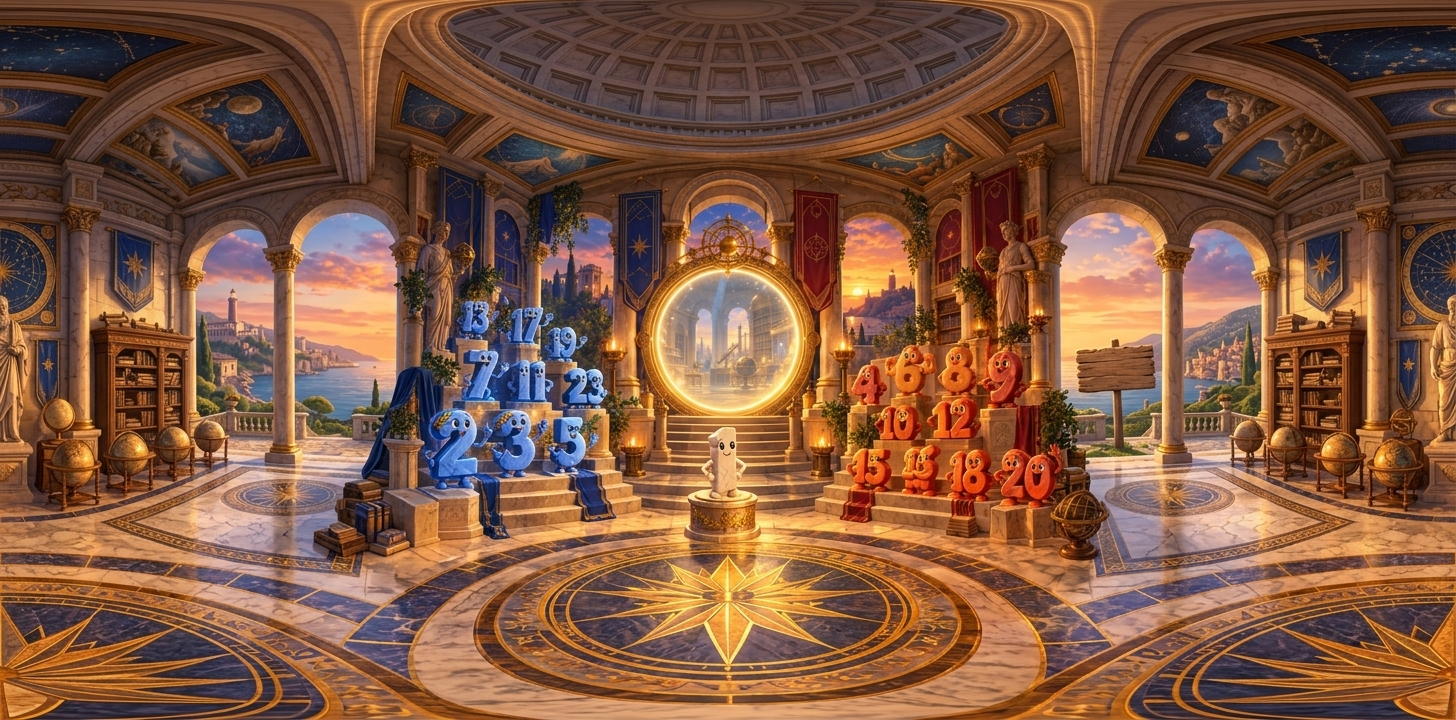
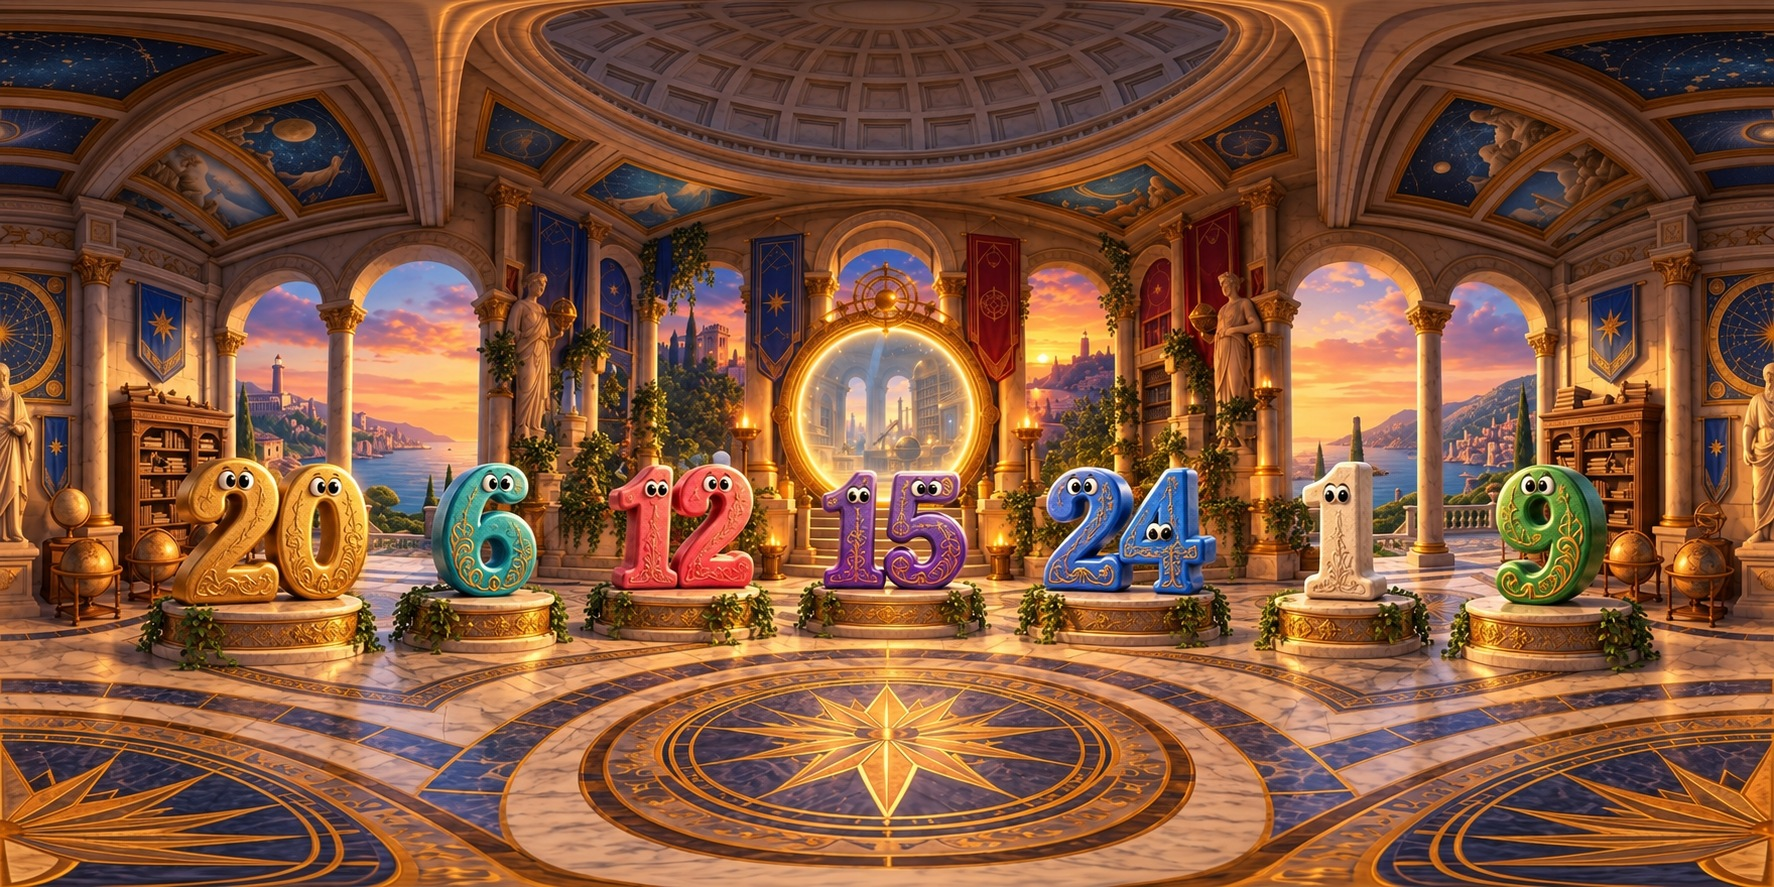
Add files via upload

diff --git a/app.js b/app.js
@@ -34,42 +34,71 @@ intro.querySelector('.intro-close').onclick=()=>{intro.classList.add('hide');tab
 let wrap=el('div','portal-wrap'),isWatched=!!watched[s.video],p=el('button','portal');p.setAttribute('aria-label',isWatched?'Attraversa il portale':'Apri la lezione video');p.innerHTML=`<span class="preview" style="background-image:url('${A+(isWatched?s.preview:s.bg)}')"></span><span class="playmark">${isWatched?'✧':'▶'}</span>`;p.onclick=()=>isWatched?travel(index+1):playVideo(s.video,true);wrap.append(p,el('div','portal-label',isWatched?'✦ Clicca per entrare nella stanza':'▶ Clicca per guardare la lezione'));root.append(wrap);let aside=el('div','side-actions');aside.append(btn('Riapri il video',()=>playVideo(s.video,true),'btn alt'));root.append(aside);stage.append(root)}
 
 const factText=n=>n<2?'Non ho una scomposizione in fattori primi.':`Sono ${factor(n).join(' × ')}.`;
-function makeMarkers(group){if(group==='primes'){
-// Coordinates of actual characters in panorama-primi.jpg, 2048 × 1024. Interactive targets are invisible overlays, not separate numbered pills.
-const xy=[
-[1,222,532],[2,371,477],[3,431,484],[5,521,478],[7,385,346],[11,434,386],[13,475,393],[17,424,322],[19,370,418],[23,515,404],
-[4,813,382],[6,846,388],[8,1278,371],[9,1303,480],[10,789,482],[15,791,536],[16,1329,540],[18,1310,412],[20,1351,480]];
-const texts={1:'Sono 1: non sono né primo né composto.',2:'Sono 2, l’unico numero primo pari.',3:'Sono 3, il più piccolo primo dispari.'};
-return xy.map(([n,x,y])=>({label:String(n),lon:90-x/2048*360,lat:90-y/1024*180,type:'numberhit',text:texts[n]||(prime(n)?`Sono ${n}: ho esattamente due divisori positivi, 1 e me stesso.`:`Sono ${n}: ${factText(n)} Sono composto, perché ho più di due divisori positivi.`)}));}
+// Hotspots use normalized texture coordinates, shared with the panorama itself.
+function region(label,x,y,w,h,text,type='numberhit',action=null){return {label:String(label),u:x,v:y,uw:w,vh:h,text,type,action}}
+function makeMarkers(group){
+if(group==='primes'){
+const boxes=[[1,722,460,55,76],[2,455,443,65,84],[3,514,443,60,79],[5,568,444,50,72],[7,478,374,48,63],[11,530,381,48,50],[13,475,318,40,42],[17,523,325,44,45],[19,564,342,42,44],[23,584,386,50,48],[4,870,384,40,46],[6,912,369,44,54],[8,958,369,44,54],[9,1002,379,43,62],[10,897,420,48,44],[12,951,418,56,48],[15,870,471,47,51],[16,918,470,47,52],[18,970,474,49,60],[20,1027,475,66,60]];
+return boxes.map(([n,x,y,w,h])=>region(n,x/1456,y/720,w/1456,h/720,n===1?'Sono 1: non sono né primo né composto. Ho un solo divisore positivo.':prime(n)?`Sono ${n}: sono primo! Ho esattamente due divisori positivi, 1 e ${n}.`:`Sono ${n}: sono composto! ${n} = ${factor(n).join(' × ')}. Ho più di due divisori positivi.`));
+}
 if(group==='euclid')return [
-{label:'✦',lon:-56,lat:3,text:'Euclide scrisse gli Elementi. Nel libro IX si trova una dimostrazione dell’infinità dei numeri primi.'},
-{label:'∞',lon:-20,lat:0,text:'I numeri primi sono infiniti: nessun elenco finito può contenerli tutti.'},
-{label:'P',lon:24,lat:3,text:'Se supponiamo di conoscere tutti i primi e consideriamo il loro prodotto più 1, otteniamo un numero non divisibile per nessuno dei primi dell’elenco.'},
-{label:'?',lon:64,lat:2,text:'Quel nuovo numero può essere primo oppure composto. Nel secondo caso, ha almeno un fattore primo non presente nell’elenco: l’ipotesi iniziale è impossibile.'}];
+region('Euclide',.50,.61,.17,.34,'Euclide scrisse gli Elementi. Nel libro IX si trova una dimostrazione dell’infinità dei numeri primi.'),
+region('La dimostrazione',.48,.84,.18,.14,'I numeri primi sono infiniti. Se supponiamo di averli elencati tutti, il loro prodotto più 1 non è divisibile per nessuno dei primi dell’elenco. È primo oppure ha un fattore primo fuori dall’elenco: in entrambi i casi, l’elenco non era completo.'),
+region('Passaggio segreto per il castello di Arsinoe',.749,.433,.08,.36,'','windowhit',()=>travel(4))];
 if(group==='eratosthenes')return [
-{label:'2',lon:-62,lat:0,text:'Comincio dal 2 e cancello tutti i suoi multipli maggiori di 2.'},
-{label:'3',lon:-25,lat:0,text:'Il primo numero non cancellato dopo il 2 è il 3. Cancello i suoi multipli maggiori di 3.'},
-{label:'5',lon:20,lat:0,text:'Proseguo con il primo numero non cancellato, senza cancellare il numero stesso.'},
-{label:'√',lon:58,lat:0,text:'Per trovare i primi fino a N basta eliminare i multipli dei primi non superiori a √N.'}];
-return [
-{label:20,lon:-92,lat:8,text:'Sono 20. Sono multiplo di 2, 4, 5 e 10 (e anche di 1 e 20).'},
-{label:6,lon:-55,lat:7,text:'Sono 6: sono divisore di 12 e multiplo di 1, 2 e 3.'},
-{label:12,lon:-16,lat:10,text:'Sono 12: sono multiplo di 3 e 4; 2, 3, 4 e 6 sono miei divisori.'},
-{label:15,lon:25,lat:9,text:'Sono 15: 3 e 5 sono miei divisori e io sono multiplo di entrambi.'},
-{label:24,lon:68,lat:8,text:'Sono 24: sono multiplo di 6, 8 e 12. Sono divisore di 48.'},
-{label:1,lon:110,lat:8,text:'Sono 1: divisore di ogni numero naturale positivo, ma non sono primo né composto.'},
-{label:9,lon:155,lat:9,text:'Sono 9: sono multiplo di 3 e divisore di 18, 27 e 36.'}];}
-class Pano{constructor(node,file){this.node=node;this.node.innerHTML='';this.scene=new THREE.Scene();this.camera=new THREE.PerspectiveCamera(72,node.clientWidth/node.clientHeight,1,1100);this.renderer=new THREE.WebGLRenderer({antialias:true});this.renderer.outputEncoding=THREE.sRGBEncoding;this.renderer.setPixelRatio(Math.min(devicePixelRatio||1,2));this.renderer.setSize(node.clientWidth,node.clientHeight);node.append(this.renderer.domElement);this.lon=0;this.lat=0;this.drag=false;this.fov=72;this.markerObjects=[];this.listeners=[];let geo=new THREE.SphereGeometry(500,64,44);geo.scale(-1,1,1);this.mat=new THREE.MeshBasicMaterial({color:0x101835});this.sphere=new THREE.Mesh(geo,this.mat);this.scene.add(this.sphere);new THREE.TextureLoader().load(A+file,tex=>{if(this.dead){tex.dispose();return}tex.encoding=THREE.sRGBEncoding;this.mat.map=tex;this.mat.needsUpdate=true},undefined,()=>{this.node.insertAdjacentHTML('beforeend','<p>Immagine panoramica non caricata.</p>')});this.install();this.tick()}
-listen(node,event,fn,opts){node.addEventListener(event,fn,opts);this.listeners.push([node,event,fn,opts])}
-install(){const c=this.node;let old=null;this.listen(c,'pointerdown',e=>{if(e.target.closest('button'))return;this.drag=true;old=[e.clientX,e.clientY];c.classList.add('dragging');c.setPointerCapture(e.pointerId)});this.listen(c,'pointermove',e=>{if(!this.drag||!old)return;let dx=e.clientX-old[0],dy=e.clientY-old[1];this.lon-=dx*.13;this.lat=Math.max(-60,Math.min(60,this.lat+dy*.13));old=[e.clientX,e.clientY]});this.listen(c,'pointerup',()=>{this.drag=false;old=null;c.classList.remove('dragging')});this.listen(c,'wheel',e=>{e.preventDefault();this.fov=Math.max(32,Math.min(98,this.fov+e.deltaY*.05));this.camera.fov=this.fov;this.camera.updateProjectionMatrix()},{passive:false});this.ro=new ResizeObserver(()=>{if(this.dead)return;let w=c.clientWidth,h=c.clientHeight;if(w&&h){this.camera.aspect=w/h;this.camera.updateProjectionMatrix();this.renderer.setSize(w,h)}});this.ro.observe(c)}
-markers(items,onClick){this.markerObjects=items.map((item)=>{const b=btn(item.type==='numberhit'?'':String(item.label),()=>onClick(item),'pano-marker '+(item.type||'info'));b.setAttribute('aria-label','Esplora: '+item.label);this.node.append(b);return {item,b}})}
-tick(){if(this.dead)return;let phi=THREE.MathUtils.degToRad(90-this.lat),theta=THREE.MathUtils.degToRad(this.lon);this.camera.lookAt(new THREE.Vector3(500*Math.sin(phi)*Math.cos(theta),500*Math.cos(phi),500*Math.sin(phi)*Math.sin(theta)));this.camera.updateMatrixWorld();let w=this.node.clientWidth,h=this.node.clientHeight;for(const {item,b} of this.markerObjects){let p=THREE.MathUtils.degToRad(90-(item.lat||0)),t=THREE.MathUtils.degToRad(item.lon);const v=new THREE.Vector3(490*Math.sin(p)*Math.cos(t),490*Math.cos(p),490*Math.sin(p)*Math.sin(t));const cam=v.clone().applyMatrix4(this.camera.matrixWorldInverse);if(cam.z>=0){b.style.display='none';continue}v.project(this.camera);if(Math.abs(v.x)>1.07||Math.abs(v.y)>1.08){b.style.display='none';continue}b.style.display='block';b.style.left=((v.x+1)*.5*w)+'px';b.style.top=((-v.y+1)*.5*h)+'px'}this.renderer.render(this.scene,this.camera);this.raf=requestAnimationFrame(()=>this.tick())}
+region('2',.25,.5,.04,.08,'Comincio dal 2 e cancello i suoi multipli maggiori di 2.'),
+region('3',.40,.5,.04,.08,'Il primo numero non cancellato dopo il 2 è il 3. Cancello i suoi multipli maggiori di 3.'),
+region('5',.60,.5,.04,.08,'Proseguo con il primo numero non cancellato, senza cancellare il numero stesso.'),
+region('√',.75,.5,.04,.08,'Per trovare i primi fino a N basta eliminare i multipli dei primi non superiori a √N.')];
+return divisorRegions();
+}
+function divisorRegions(){
+const rows=[
+[20,270,530,190,152,'Sono 20: sono multiplo di 2, 4, 5 e 10, e anche di 1 e 20.'],
+[6,483,529,115,142,'Sono 6: sono divisore di 12 e multiplo di 2 e 3. Infatti 12 = 6 × 2 e 6 = 2 × 3.'],
+[12,684,527,153,141,'Sono 12: sono multiplo di 3 e 4. I miei divisori positivi sono 1, 2, 3, 4, 6 e 12.'],
+[15,892,529,151,136,'Sono 15: sono multiplo di 3 e 5. Infatti 15 = 3 × 5.'],
+[24,1127,531,185,140,'Sono 24: sono multiplo di 6, 8 e 12. Sono anche divisore di 48.'],
+[1,1340,528,94,145,'Sono 1: sono divisore di ogni numero naturale positivo. Non sono né primo né composto.'],
+[9,1551,529,117,147,'Sono 9: sono multiplo di 3 e divisore di 18, 27 e 36.']];
+return rows.map(([n,x,y,w,h,text])=>region(n,x/1774,y/887,w/1774,h/887,text));}
+
+class Pano{
+constructor(node,file){
+this.node=node;this.scene=new THREE.Scene();this.camera=new THREE.PerspectiveCamera(72,node.clientWidth/node.clientHeight,1,1100);
+this.renderer=new THREE.WebGLRenderer({antialias:true});this.renderer.outputEncoding=THREE.sRGBEncoding;this.renderer.setPixelRatio(Math.min(devicePixelRatio||1,2));this.renderer.setSize(node.clientWidth,node.clientHeight);node.append(this.renderer.domElement);
+this.lon=180;this.lat=0;this.fov=72;this.markerObjects=[];this.listeners=[];
+const geo=new THREE.SphereGeometry(500,96,64);geo.scale(-1,1,1);this.mat=new THREE.MeshBasicMaterial({color:0xffffff});this.sphere=new THREE.Mesh(geo,this.mat);this.scene.add(this.sphere);
+new THREE.TextureLoader().load(A+file,tex=>{if(this.dead){tex.dispose();return}tex.encoding=THREE.sRGBEncoding;this.mat.map=tex;this.mat.needsUpdate=true},undefined,()=>{if(!this.dead)this.node.insertAdjacentHTML('beforeend','<p class="pano-hint">Immagine panoramica non caricata.</p>')});
+this.bubble=el('div','pano-bubble hide');this.bubble.setAttribute('role','status');this.bubble.append(btn('×',()=>this.closeBubble(),'bubble-close'),this.bubbleText=el('p'));node.append(this.bubble);this.install();this.tick();
+}
+listen(n,e,f,o){n.addEventListener(e,f,o);this.listeners.push([n,e,f,o])}
+closeBubble(){this.active=null;this.bubble.classList.add('hide')}
+install(){const c=this.node;let start=null,old=null;this.moved=false;
+this.listen(c,'pointerdown',e=>{if(e.target.closest('.pano-controls,.pano-bubble'))return;start=old=[e.clientX,e.clientY];this.moved=false;this.drag=true;});
+this.listen(c,'pointermove',e=>{if(!this.drag||!old)return;const dx=e.clientX-old[0],dy=e.clientY-old[1];if(Math.hypot(e.clientX-start[0],e.clientY-start[1])>7)this.moved=true;if(this.moved){this.lon-=dx*.13;this.lat=Math.max(-60,Math.min(60,this.lat+dy*.13));c.classList.add('dragging')}old=[e.clientX,e.clientY]});
+const stop=()=>{this.drag=false;old=null;c.classList.remove('dragging')};this.listen(window,'pointerup',stop);this.listen(window,'pointercancel',stop);
+this.listen(c,'click',e=>{if(this.moved){e.stopPropagation();e.preventDefault();return}if(!e.target.closest('button,.pano-bubble'))this.closeBubble()},true);
+this.listen(c,'wheel',e=>{e.preventDefault();this.zoom(e.deltaY*.05)},{passive:false});
+this.ro=new ResizeObserver(()=>{if(this.dead)return;const w=c.clientWidth,h=c.clientHeight;if(w&&h){this.camera.aspect=w/h;this.camera.updateProjectionMatrix();this.renderer.setSize(w,h)}});this.ro.observe(c);
+}
+markers(items){this.markerObjects=items.map(item=>{const b=btn('',()=>{if(item.action){item.action();return}this.active=item;this.bubbleText.textContent=item.text;this.bubble.classList.remove('hide')},'pano-marker '+item.type);b.setAttribute('aria-label','Esplora: '+item.label);this.node.append(b);return {item,b}})}
+project(u,v){const t=u*Math.PI*2,p=v*Math.PI;const vec=new THREE.Vector3(490*Math.sin(p)*Math.cos(t),490*Math.cos(p),490*Math.sin(p)*Math.sin(t));if(vec.clone().applyMatrix4(this.camera.matrixWorldInverse).z>=-1)return null;vec.project(this.camera);return {x:(vec.x+1)*this.node.clientWidth/2,y:(1-vec.y)*this.node.clientHeight/2}}
+tick(){if(this.dead)return;const phi=THREE.MathUtils.degToRad(90-this.lat),theta=THREE.MathUtils.degToRad(this.lon);this.camera.lookAt(new THREE.Vector3(500*Math.sin(phi)*Math.cos(theta),500*Math.cos(phi),500*Math.sin(phi)*Math.sin(theta)));this.camera.updateMatrixWorld();const w=this.node.clientWidth,h=this.node.clientHeight;
+for(const {item,b} of this.markerObjects){const q=this.project(item.u,item.v);const corners=[[-1,-1],[1,-1],[-1,1],[1,1]].map(([x,y])=>this.project(item.u+x*item.uw/2,item.v+y*item.vh/2));if(!q||corners.some(c=>!c)||q.x< -100||q.x>w+100||q.y< -100||q.y>h+100){b.style.display='none';continue}const xs=corners.map(c=>c.x),ys=corners.map(c=>c.y);const bw=Math.max(44,Math.max(...xs)-Math.min(...xs)),bh=Math.max(44,Math.max(...ys)-Math.min(...ys));b.style.cssText=`display:block;left:${q.x}px;top:${q.y}px;width:${bw}px;height:${bh}px`;
+}
+if(this.active){const q=this.project(this.active.u,this.active.v-this.active.vh/2);if(!q||q.x<0||q.x>w||q.y<0||q.y>h)this.bubble.style.visibility='hidden';else{this.bubble.style.visibility='visible';const bw=this.bubble.offsetWidth,bh=this.bubble.offsetHeight;this.bubble.style.left=Math.max(8,Math.min(w-bw-8,q.x-bw/2))+'px';this.bubble.style.top=Math.max(64,Math.min(h-bh-110,q.y-bh-12))+'px';}}
+this.renderer.render(this.scene,this.camera);this.raf=requestAnimationFrame(()=>this.tick());
+}
 zoom(d){this.fov=Math.max(32,Math.min(98,this.fov+d));this.camera.fov=this.fov;this.camera.updateProjectionMatrix()}
-dispose(){this.dead=true;cancelAnimationFrame(this.raf);this.ro?.disconnect();this.listeners.forEach(([n,e,f,o])=>n.removeEventListener(e,f,o));this.mat.map?.dispose();this.mat.dispose();this.sphere.geometry.dispose();this.renderer.dispose();this.renderer.domElement.remove()}}
+dispose(){this.dead=true;cancelAnimationFrame(this.raf);this.ro?.disconnect();this.listeners.forEach(([n,e,f,o])=>n.removeEventListener(e,f,o));this.mat.map?.dispose();this.mat.dispose();this.sphere.geometry.dispose();this.renderer.dispose();this.renderer.domElement.remove()}
+}
 function renderPanoScene(s){const node=el('div','pano');stage.append(node);if(!window.THREE){node.innerHTML=`<div class="scene" style="background-image:url('${A+s.bg}')"><div class="intro"><h2>Impossibile caricare il visore 360°</h2><p>Serve la libreria Three.js e una connessione a Internet.</p></div></div>`;return}viewer=new Pano(node,s.bg);const hint=el('div','pano-hint','Trascina per esplorare · clicca direttamente sui numeri · scorri per zoomare');node.append(hint);setTimeout(()=>hint.remove(),7000);
-const markers=makeMarkers(s.group);const panel=el('div','pano-panel',`<h2>${escapeH(s.title)}</h2><p id="factInfo">Sposta lo sguardo e scopri gli hotspot nascosti nella scena.</p>`);node.append(panel);viewer.markers(markers,item=>{const p=$('#factInfo');if(p)p.textContent=item.text});const controls=el('div','pano-controls');node.append(controls);controls.append(btn('＋ Zoom',()=>viewer.zoom(-10),'mini'),btn('－ Zoom',()=>viewer.zoom(10),'mini'));
+const markers=makeMarkers(s.group);viewer.markers(markers);const controls=el('div','pano-controls');node.append(controls);controls.append(btn('＋',()=>viewer.zoom(-10),'mini'),btn('−',()=>viewer.zoom(10),'mini'),btn('Mostra curiosità',e=>{node.classList.toggle('show-hotspots');},'mini'));
+if(s.group==='primes')viewer.lon=120;
+if(s.group==='euclid')viewer.lon=220;
 if(s.group==='eratosthenes'){controls.append(btn('▶ Video Eratostene',()=>playVideo('video4'),'mini'));if(C.video5)controls.append(btn('▶ Secondo video',()=>playVideo('video5'),'mini'))}
-if(s.quiz){controls.append(btn(quizPassed[index]?'✓ Quiz superato · prosegui':'✦ Affronta 5 quesiti',()=>quizPassed[index]?travel(index+1):startQuiz(s.quiz,5,3,()=>{quizPassed[index]=true;travel(index+1)}),'btn'));}else if(s.group==='euclid'){controls.append(btn('➜ Verso il castello di Arsinoe',()=>travel(4),'btn'));}else if(s.group==='eratosthenes'){controls.append(btn('➜ Entra nel crivello interattivo',()=>travel(6),'btn'));}else controls.append(btn('✧ Prosegui',()=>travel(index+1),'btn'));
+if(s.quiz){controls.append(btn(quizPassed[index]?'✓ Quiz superato · prosegui':'✦ Affronta 5 quesiti',()=>quizPassed[index]?travel(index+1):startQuiz(s.quiz,5,3,()=>{quizPassed[index]=true;travel(index+1)}),'btn'));}else if(s.group==='euclid'){hint.textContent='Esplora la biblioteca: una finestra nasconde il passaggio per Arsinoe.';}else if(s.group==='eratosthenes'){controls.append(btn('➜ Entra nel crivello interattivo',()=>travel(6),'btn'));}else controls.append(btn('✧ Prosegui',()=>travel(index+1),'btn'));
 }
 function renderEmbed(){let root=el('div','scene');root.innerHTML=`<div class="intro" style="top:63px;max-width:none"><h2>Il crivello di Eratostene</h2><p>Sperimenta: quali numeri restano quando elimini progressivamente i multipli?</p></div><iframe id="crivello" class="embed embedScene" title="Crivello Matica" loading="eager" src="${escapeH(C.crivello)}"></iframe>`;let bar=el('div','embedToolbar');bar.append(btn('Apri in un’altra scheda',()=>window.open(C.crivello,'_blank','noopener'),'btn alt'));bar.append(btn('✧ Ho esplorato il crivello · prosegui',()=>travel(index+1)));root.append(bar);stage.append(root)}
 function createPrimeQuiz(){const nums=shuffle(Array.from({length:30},(_,i)=>i+1));let selected=nums.slice(0,5);if(!selected.includes(1)&&Math.random()<.5)selected[0]=1;return selected.map((n,i)=>{if(n===1||prime(n)||i%2===0)return {type:'choice',text:`Il numero ${n} è…`,choices:['Primo','Composto','Né primo né composto'],correct:n===1?2:prime(n)?0:1,explanation:n===1?'1 ha un solo divisore positivo.':prime(n)?`${n} ha esattamente due divisori positivi.`:`${n} = ${factor(n).join(' × ')}.`};return {type:'factors',text:`Scomponi ${n} in fattori primi. Scrivi per esempio 2×3×3.`,n,explanation:`${n} = ${factor(n).join(' × ')}. L’ordine dei fattori non conta.`}})}

diff --git a/style.css b/style.css
@@ -17,3 +17,12 @@
 @keyframes fly{0%{transform:scale(.035);filter:brightness(1.1) blur(0)}45%{transform:scale(.20);filter:brightness(1.15) blur(0)}78%{transform:scale(.72);filter:brightness(1.15) blur(1px)}100%{transform:scale(3);filter:brightness(1.3) blur(3px)}}
 @keyframes fadeout{0%{opacity:0}8%{opacity:1}75%{opacity:1}100%{opacity:0}}
 @media(max-width:750px){.intro{top:65px;left:8px;right:8px;max-width:none;padding:17px 42px 17px 18px;}.intro p{font-size:15px;}.intro h1{font-size:23px}.portal-wrap{top:62%;}.pano-panel p{font-size:13px;}}
+
+/* Hotspot trasparenti, ancorati alla texture anche durante zoom e rotazione. */
+.pano-marker.numberhit,.pano-marker.windowhit{background:transparent!important;border:0!important;box-shadow:none!important;padding:0;min-width:44px;min-height:44px;border-radius:8px;color:transparent;}
+.pano-marker.numberhit:hover,.pano-marker.windowhit:hover{background:transparent!important;outline:0;transform:translate(-50%,-50%);}
+.pano-marker:focus-visible,.show-hotspots .pano-marker{outline:2px dashed #ffe6a3!important;background:#ffdd7726!important;}
+.pano-bubble{position:absolute;z-index:6;width:min(310px,calc(100vw - 16px));padding:16px 38px 16px 16px;border:1px solid #ffe0a7;border-radius:16px;background:#0b193bf5;color:#fff7df;box-shadow:0 6px 25px #0008;line-height:1.45;cursor:default;touch-action:pan-y;max-height:calc(100dvh - 180px);overflow:auto;}
+.pano-bubble p{margin:0;font-size:16px;}.bubble-close{position:absolute;right:3px;top:2px;width:36px;height:36px;border:0;background:none;color:white;font-size:26px;}
+.pano-controls{flex-direction:row;flex-wrap:wrap;align-items:center;justify-content:flex-end;left:10px;right:10px;bottom:43px;pointer-events:none;}.pano-controls button{pointer-events:auto;min-height:44px;}.pano-hint{max-width:calc(100vw - 20px);width:max-content;text-align:center;}
+@media(max-width:750px){.pano-controls{gap:5px}.pano-controls .btn{font-size:13px;padding:10px}.pano-controls .mini{padding:8px 12px;font-size:13px}.pano-bubble p{font-size:15px}footer{padding:0 7px;font-size:9px}.brand{font-size:14px}.intro{max-height:43dvh;overflow:auto}}

diff --git a/README.md b/README.md
@@ -3,16 +3,16 @@
 App didattica HTML/CSS/JavaScript per GitHub Pages e LIM / smartphone. Titolarità dei materiali originali: Claudia Bartoli; i servizi e i componenti di terzi restano soggetti alle proprie condizioni.
 
 ## Pubblicazione
-Carica **tutti i file e la cartella `assets` allo stesso livello indicato nello ZIP** nella radice di un repository. Attiva Settings → Pages → Deploy from a branch → main → /(root). L'avvio è `index.html`. Non serve compilazione. La connessione Internet serve per Three.js (CDN), video YouTube e risorsa Crivello esterna.
+Carica **tutti i file allo stesso livello indicato nello ZIP** nella radice di un repository. Attiva Settings → Pages → Deploy from a branch → main → /(root). L'avvio è `index.html`. Non serve compilazione. La connessione Internet serve per Three.js (CDN), video YouTube e risorsa Crivello esterna.
 
 ## Personalizzare i video
-Apri `config.js`: inserisci ID YouTube di 11 caratteri o URL completi nei campi `video1`, `video2`, `video3`, `video5` (facoltativo), `video6`. `video4` contiene l'URL **https://youtu.be/huQlt7OHAg4** fornito per Eratostene. Nessun URL per video 1, 2, 3, 5 o 6 era identificabile nell'ultimo messaggio, quindi i relativi campi sono vuoti e vengono indicati chiaramente nell'app. Le scene rimangono esplorabili per consentire la verifica del prototipo.
+I collegamenti alle lezioni sono già impostati in `config.js`. Il campo `video5` resta facoltativo.
 
 ## Percorso
 1. Atrio numeri primi → videolezione definizione e teorema fondamentale.
-2. Panorama numeri primi/composti: 19 hotspot (1 e primi/composti) e 5 quesiti, soglia 3/5.
+2. Panorama numeri primi/composti: 20 hotspot (1 e primi/composti) e 5 quesiti, soglia 3/5.
 3. Atrio Euclide → video infinità dei primi.
-4. Panorama Euclide con quattro hotspot di approfondimento.
+4. Panorama Euclide con approfondimenti sul personaggio e sulla dimostrazione; una zona trasparente sulla finestra conduce direttamente ad Arsinoe.
 5. Atrio Arsinoe → video ricerca dei primi.
 6. Panorama Eratostene con 4 hotspot; video fornito ed eventuale secondo video.
 7. Crivello esistente via iframe, con possibilità di apertura in nuova scheda.
@@ -35,3 +35,11 @@ Per informazioni: claudiabartoli77@libero.it
 
 
 **Versione GitHub FLAT:** caricare tutti i file di questa cartella insieme nella root del repository, senza sottocartelle.
+
+
+## Revisione interazioni — 2 ottobre 2026
+- Hotspot trasparenti allineati alle coordinate effettive delle immagini; dimensioni aggiornate con la prospettiva e lo zoom, area minima 44 px.
+- Informazioni in fumetti ancorati al numero selezionato, chiudibili e contenuti entro lo schermo.
+- Mostra curiosità evidenzia le aree sensibili; trascinare su un numero non apre il fumetto.
+- Nuova illustrazione per multipli/divisori: 20, 6, 12, 15, 24, 1, 9. Immagine generata con lo strumento integrato: sala monumentale al tramonto, sette numeri tridimensionali separati su piedistalli, senza etichette o numeri riflessi.
+- Verificati sintassi JavaScript, coordinate rispetto alla geometria sferica e destinazione del passaggio segreto. La verifica su un dispositivo fisico resta da effettuare.
